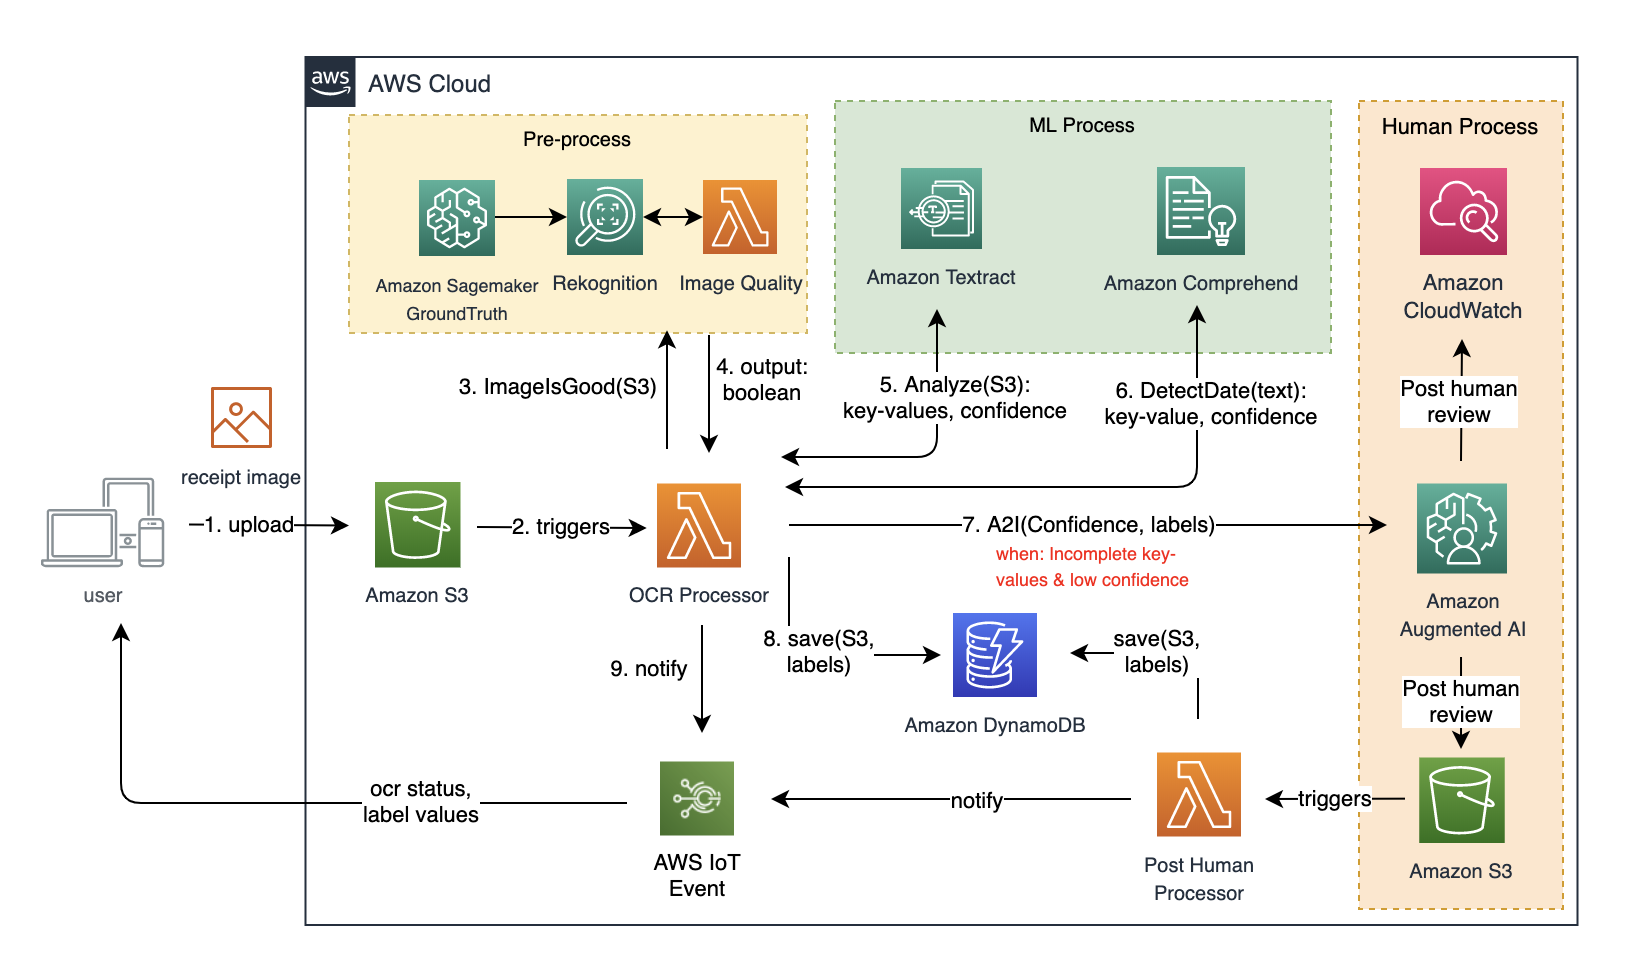
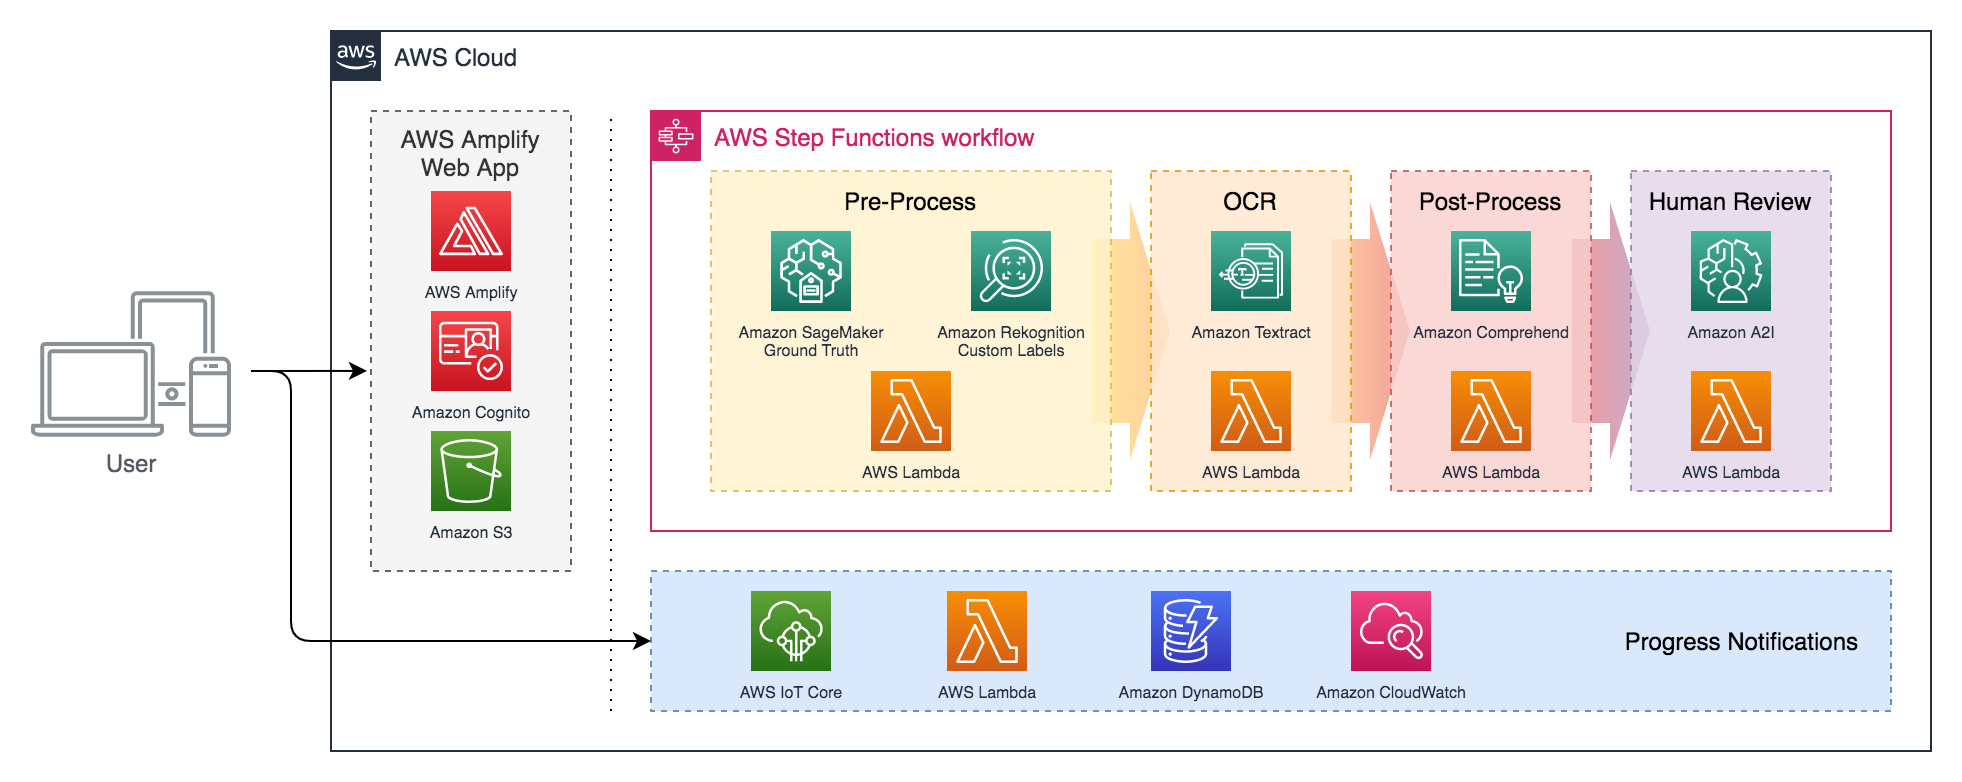
doc(root): initial tidy-up
Covering root and notifications/webui, but not other pipeline components

diff --git a/README.md b/README.md
@@ -14,46 +14,66 @@ This solution demonstrates how Textract can be integrated with:
 - **Results post-processing logic** - using custom logic as well as NLP from [Amazon Comprehend](https://aws.amazon.com/comprehend/)
 - **Human review and data annotation** - using [Amazon A2I](https://aws.amazon.com/augmented-ai/) and [Amazon SageMaker Ground Truth](https://aws.amazon.com/sagemaker/groundtruth/)
 
-The design is modular, to show how this pre- and post-processing can be easily customized for different use-cases.
+...on a simple example use-case: **extracting vendor, date, and total amount from receipt images.**
+
+The design is modular, to show how this pre- and post-processing can be easily customized for different applications.
 
 
-## Solution Architecture 
+## Solution Architecture Overview
+
+This overview diagram is *not an exhaustive list* of AWS services used in the solution.
 
 ![Smart OCR Architecture Diagram](images/architecture-overview.png "Smart OCR Demo Architecture")
 
-The solution has four high-level modules:
+The solution **orchestrates the core OCR pipeline** with [AWS Step Functions](https://aws.amazon.com/step-functions/) - rather than direct point-to-point integrations - which gives us a customizable, graphically-visualizable flow (defined in [/source/StateMachine.asl.json](source/StateMachine.asl.json)):
 
-- [Preprocessing part to identify this image as "good" or "bad](1.img-pre-processing)
-- [Textract for OCR](2.ocr-post-processing)
-- [Human-In-The-Loop (A2I) for human intervention in case of bad images](3.a2i-review)
-- [Web UI component to upload the receipt/document to S3 & view OCR result](4.web-gui)
+![AWS Step Functions Screenshot](images/step-function-screenshot.png "Step Function Flow Diagram")
 
-Additional details on how to deploy these modules have been provided in the readme file in the respective folders.
+The **client application** and associated services are built and deployed as an [AWS Amplify](https://aws.amazon.com/amplify/) app, which simplifies setup of standard client-cloud integration patterns (e.g. user sign-up/login, authenticated S3 data upload).
+
+Rather than have our web client *poll* the state machine for progress updates, we **push messages** via [Amplify PubSub](https://docs.amplify.aws/lib/pubsub/getting-started/q/platform/js) - powered by [AWS IoT Core](https://aws.amazon.com/iot-core/).
+
+The [Amplify build settings](https://docs.aws.amazon.com/amplify/latest/userguide/build-settings.html) (in [amplify.yml](amplify.yml) with some help from the [Makefile](Makefile)) define how **both** the Amplify-native and custom stack components are built and deployed... Leaving us with the folder structure you see in this repository:
+
+```tree
+├── amplify                   [Auto-generated, Amplify-native service config]
+├── source
+│   ├── ocr                       [Custom, non-Amplify backend service stack]
+│   │   ├── human-review              [Human review integration with Amazon A2I]
+│   │   ├── postprocessing            [Extract business-level fields from Textract output]
+│   │   ├── preprocessing             [Image pre-check/cleanup logic]
+│   │   ├── textract-integration      [SFn-Textract integrations]
+│   │   ├── ui-notifications          [SFn-IoT push notifications components]
+│   │   ├── StateMachine.asl.json     [Processing flow definition]
+│   │   └── template.sam.yml          [AWS SAM template for non-Amplify components]
+│   └── webui                     [Front-end app (VueJS, BootstrapVue, Amplify)]
+├── amplify.yml               [Overall solution build steps]
+└── Makefile                  [Detailed build commands, to simplify amplify.yml]
+```
+
+{{#note}}
+
+For details on each component, check the READMEs in their subfolders!
+
+{{/note}}
 
 
-## Getting Started
+## Deploying the Solution
 
-**WORK IN PROGRESS one-click deploy button (probably broken!)**
+If you have:
+
+- A [GitHub Account](https://github.com/join)
+- An [AWS Account](https://aws.amazon.com/account/)
+- **Understood that this solution may consume services outside the [Free Tier](https://aws.amazon.com/free), which will be chargeablee**
+
+...then you can go ahead and click the button below, which will fork the repository and deploy the base solution stack(s):
 
 [![One-click deployment](https://oneclick.amplifyapp.com/button.svg)](https://console.aws.amazon.com/amplify/home#/deploy?repo=https://github.com/athewsey/textract-demo)
 
+From here, there are just a few extra (but not trivial) **manual configuration steps** required to complete your setup:
 
-## AWS Services Used
+- Create a [Rekognition Custom Labels](https://console.aws.amazon.com/rekognition/custom-labels) model [as described in the preprocessing component doc](source/ocr/preprocessing), and configure your `FunctionPreProcess` Lambda function's environment variable to reference it.
+- Create an [Amazon A2I](https://docs.aws.amazon.com/sagemaker/latest/dg/a2i-use-augmented-ai-a2i-human-review-loops.html) human review flow and workforce [as described in the human-review component doc](source/ocr/human-review), and configure your `FunctionStartHumanReview` Lambda function's environment variable to reference the flow.
+- Register a user account **through the deployed app UI**, log in, and check it's permissions are set up correctly [as described in the ui-notifications component doc](source/ocr/ui-notifications).
 
-**Machine Learning Services:**
-
-- [Amazon SageMaker Ground Truth](https://aws.amazon.com/sagemaker/groundtruth/) - Manual labelling of training data set
-- [Amazon Rekognition Custom Labels](https://aws.amazon.com/rekognition/custom-labels-features/) - Quickly build custom ML models to detect objects and classify image quality
-- [Amazon Textract](https://aws.amazon.com/textract/) - Document text detection and analysis
-- [Amazon Comprehend](https://aws.amazon.com/comprehend/) - Natural language processing (NLP) to extract insights about content of documents
-- [Amazon Augmented AI (A2I)](https://aws.amazon.com/augmented-ai/) - Human intervention for low-confidence ML predictions
-
-**Integration and Orchestration:**
-
-- [AWS Lambda](https://aws.amazon.com/lambda/) - AWS Serverless components to execute code without worrying about servers
-- [AWS API Gateway](https://aws.amazon.com/api-gateway/) - AWS API Management service
-- [AWS Amplify](https://aws.amazon.com/amplify/) - Framework to build full-stack iOS, Android, Web, and React Native apps
-- [AWS IoT Events](https://aws.amazon.com/iot-events/) - Secure, bi-directional communication between client and AWS Cloud
-- [Amazon DynamoDB](https://aws.amazon.com/dynamodb/) - Highly scalable NoSQL database to store OCR labels
-- [Amazon S3](https://aws.amazon.com/s3/) - Object store for documents and images
-- [Amazon Cognito](https://aws.amazon.com/cognito/) - Handles user registration, authentication and authorization for the web app
+Now you should be all set to upload images through the app UI, review low-confidence results through the Amazon A2I UI, and see the results!

diff --git a/source/webui/README.md b/source/webui/README.md
@@ -1,58 +1,32 @@
 # Web GUI Flow
-<br>![alt text ](https://github.com/apac-ml-tfc/textract-demo/blob/master/4.web-gui/webui-flow.png "Service flow") 
+<br>![alt text ](webui-flow.png "Service flow") 
 
-# Setup Web GUI environment
+## Setting up a Dev Environment
 
-## Prerequisites
+### Pre-Requisitees
 
-Before we begin, make sure you have the following installed:
+You'll need installed:
 
 * [Node.js](https://nodejs.org/) v10.x or later
 * [npm](https://www.npmjs.com/) v5.x or later
 * [git](https://git-scm.com/) v2.14.1 or later
+* Amplify CLI: `npm install -g @aws-amplify/cli`
 
-## Install Amplify, Vue and app code
+You may also wish to globally install the [Vue CLI](https://cli.vuejs.org/), otherwise you'll need to prefix any `vue` commands with `npx`.
 
-### Install and configure Amplify CLI
-```
-npm install -g @aws-amplify/cli
-```
 
-### Configure Amplify CLI with AWS IAM user keys
-```
+###  OLD Instructions: Re-configuring from scratch
+
+#### Configure Amplify CLI with AWS IAM user keys
+```sh
 amplify configure
 ```
 This creates the following files:
 * ~/.aws/config
 * ~/.aws/credentials
 
-### Install Vue CLI
-```
-npm install -g @vue/cli
-```
-
-### Create new project
-```
-vue create smartocr
-```
-This creates a smartocr folder.
-
-### Extract app code 
-```
-git clone https://github.com/apac-ml-tfc/textract-demo.git
-cd smartocr
-```
-Copy and replace contents from <b>textract-demo/4.web-gui</b> into <b>smartocr</b> folder
-
-### Install app required npm modules in the app folder
-```
-cd smartocr
-npm install --save bootstrap bootstrap-vue
-npm install --save aws-amplify aws-amplify-vue
-```
-
-### Initialize Amplify
-```
+#### Initialize Amplify
+```sh
 amplify init
 ```
 * project name: smartocr
@@ -67,8 +41,8 @@ amplify init
 * using default provider: awscloudformation (can’t change)
 * AWS profile: use default or new profile
 
-### Adds S3 storage with Cognito Authentication and Authorization
-```
+#### Adds S3 storage with Cognito Authentication and Authorization
+```sh
 amplify add storage
 ```
 * Content (Images, audio, video, etc)
@@ -82,83 +56,28 @@ amplify add storage
 * access: create/update, read
 * add Lambda trigger: N
 
-### Update cloud resources
+#### Update cloud resources
 Run the following command to check Amplify's status:
-```
+```sh
 amplify status
 ```
 This will show the current status of the Amplify project, including the current environment, any categories that have been created, and what state those categories are in.
 
 Run the following command to update the cloud resources.
-```
+```sh
 amplify push
 ```
 
-## Setup additional AWS services
 
-### IoT Core endpoint for pubsub
+## Running the App Locally
 
-#### Obtain the IoT Core endpoint
-```
-aws iot describe-endpoint --endpoint-type iot:Data-ATS
-```
-Update the region and endpoint values in <b>src/SmartOCR.vue</b>
-```
-const AWS_PUBSUB_REGION = 'us-east-1'
-const AWS_PUBSUB_ENDPOINT = 'wss://ENDPOINTHERE/mqtt'
-```
-#### Create IoT Policy
-To use PubSub with AWS IoT, you will need to create an IoT Policy in the AWS IoT Console, and attach this policy to each logged-in user's Cognito Identity. This attachment is performed after a Cognito user is authenticated.
-
-Go to [IoT Core](https://console.aws.amazon.com/iot/home) and choose <b>Secure</b> from the left navigation pane. Then navigate to <b>Policies</b> and create the following policy:
-* Name: <b>myIoTPolicy</b>
-* Action: iot:*
-* Resource ARN: arn:aws:iot:YOUR-IOT-REGION:YOUR-IOT-ACCOUNT-ID:*
-* Effect: Allow
-
-Note: the policy name must match the name used in the following Lambda function.
-#### Attach IoT policy to Amazon Cognito Identity
-Create a new [Lambda function](https://console.aws.amazon.com/lambda) with Function code from <b>src/smartocr-post-authentication.py</b>
-* Function name: <b>smartocr-post-authentication</b>
-* Runtime: Python 3.8
-* Execution role: Create a new role with basic Lambda permissions
-
-After function is created, go to <b>Permissions</b> tab to open the role (e.g. smartocr-post-authentication-role-e73v7toi), and attach the following policies:
-* AWSIoTConfigAccess
-* AmazonCognitoPowerUser
-
-In IAM, search for <b>amplify-smartocr</b> and select the role that ends with <b>authRole</b>. This role was created by Amplify and assumed by authenticated users. Attach the following policies:
-* AWSIoTConfigAccess
-* AWSIotDataAccess
-
-Go to [Cognito User Pool](https://console.aws.amazon.com/cognito/users) and choose <b>Triggers</b> from the left navigation pane. In the <b>Post authentication panel</b>, select the Lambda function created previously:
-```
-smartocr-post-authentication
-```
-
-
-### S3 image upload trigger
-Complete setup in [2.ocr-post-processing](https://github.com/apac-ml-tfc/textract-demo/tree/master/2.ocr-post-processing) and note Lambda function name.
-
-Go to [S3](https://console.aws.amazon.com/s3) and select <b>smartocr-uploads*</b> bucket. In the <b>Properties</b> tab select <b>Events</b> and add the following notification:
-* Name: smartocr-s3objectcreate
-* Events: All object create events
-* Send to: Lambda Function
-* Lambda: <b>Select the Lambda function defined in ocr-post-processing</b>
-
-### Post A2I lambda trigger
-Complete setup in [3.a2i-review](https://github.com/apac-ml-tfc/textract-demo/tree/master/3.a2i-review)
-
-## Run app
-
-### Compile and run dev server locally
-```
+```sh
 npm run serve
 ```
 
 If you are running this in an AWS Cloud9 environment, replace following content in the <b>vue.config.js</b> file
-```
-    #public: 'http://localhost:8080’
+```js
+    //public: 'http://localhost:8080’
     public: 'https://xxxxxxxxxxxx.vfs.cloud9.us-east-1.amazonaws.com'
 ```
 
@@ -166,23 +85,15 @@ If you are running this in an AWS Cloud9 environment, replace following content 
 
 You may now login to the app on your local machine. On the home page, create an account with a valid email address for email confirmation. Login with the your credentials and try uploading samples from this folder.
 
-### Add hosting to your app
-Perform the following to deploy your app manually. You may choose to setup automatic continuous deployment.
-```
-amplify add hosting
-```
-* plugin module: Hosting with Amplify Console
-* type: Manual deployment
-
 ### Publish app
 
-```
+```sh
 amplify publish
 ```
 Note the published url, e.g. xvxvxvxvxvxvxv.amplifyapp.com
 
 ## Cleanup project
-```
+```sh
 amplify delete
 ```
 These objects must be deleted explicitly

diff --git a/source/ocr/ui-notifications/README.md b/source/ocr/ui-notifications/README.md
@@ -1,0 +1,81 @@
+# Notifications with AWS IoT Core and Amplify PubSub
+
+This folder contains assets specific to the IoT-based progress notifications component.
+
+## Component Architecture Overview
+
+When a Step Function execution is triggered (by the user's upload of an image into the upload bucket), the state machine begins to emit log events to CloudWatch.
+
+A Lambda function is subscribed to pick up these events, and publish them to the originating user's IoT Core topic - from where they're visible to the web UI via Amplify's PubSub library.
+
+![Notifications Architecture Overview](images/notifications-overview.png "Notifications Architecture Overview Diagram")
+
+### Key Challenges
+
+1. Because our state machine is triggered implicitly by S3 uploads (rather than through a custom app-facing API combining the upload and execution start operations):
+    - The client doesn't automatically know what SFn execution ID(s) it's started
+    - The initial input to the Step Function is the only place where this information is reliably present (SFn error events might omit data fields, but will always contain the SFn execution ID)
+    - **...so tracking the correlation between S3 upload URI, Cognito ID, and SFn Execution ID is not trivial**
+2. Granting Cognito identities access to IoT topics requires *both*:
+    - Attaching an appropriate IAM policy to the Authenticated Role of the Cognito Identity Pool, *and*
+    - Attaching *each identity* (user) as principal to an IoT Core policy
+    - **...so setting up Cognito user permissions is not trivial** - especially Cognito draws a separation between [users and identities](https://aws.amazon.com/premiumsupport/knowledge-center/cognito-user-pools-identity-pools/), and both pools are set up by Amplify rather than our custom stack.
+
+
+## Troubleshooting PubSub Permissions
+
+If you're seeing permissions errors when the web UI tries to connect to PubSub topics, then `FunctionSetUpIoTAuth` has let you down: Your Cognito user's permissions were not correctly set up during on-boarding.
+
+### Check your Cognito Identity pool AuthRole IAM permissions
+
+**TL;DR:** Check your `amplify-....-authRole` [IAM Role](https://console.aws.amazon.com/iam/home#/roles) has the `AWSIoTConfigAccess` and `AWSIoTDataAccess` managed policies attached.
+
+**Walkthrough:**
+
+- Open the [AWS IAM Console Roles tab](https://console.aws.amazon.com/iam/home#/roles) and search for a role named something like `amplify-{APPNAME}-{BRANCHNAME}-{RANDOM}-authRole`.
+- If needed (e.g. lots of similar looking roles), you can trace your app's authenticated role through from the Amplify Console:
+  - Open your app in the [Amplify Console](https://console.aws.amazon.com/amplify/home) and go to the "Backend environments" tab.
+  - You will probably see just one environment, and should click through to the **Authentication** area.
+  - From here, you'll see a direct link to view your **federated identities pool** in [Amazon Cognito](https://console.aws.amazon.com/cognito/pool/) (or, if you struggled, just go to the Amazon Cognito console and pick the **Identity Pool** that looks right).
+  - From the dashboard for your Identity Pool, click the **Edit identity pool** link in the top.
+  - The Edit page will include a drop-down listing your **Authenticated role** name (but no clickable-link - you'll still have to go find it in [IAM Console](https://console.aws.amazon.com/iam/home#/roles)! 😖)
+- From the correct role's Summary page in IAM, you'll see a blue **Attach policies** button on the (default) 'Permissions' tab.
+- Click the button, and attach both `AWSIoTConfigAccess` and `AWSIoTDataAccess` to the role.
+
+### Check your specific Cognito Identity has IoT permissions
+
+**TL;DR:** Your Cognito Identity ID must have been attached to the solution's [IoT Policy](https://console.aws.amazon.com/iot/home?#/policyhub).
+
+**Your Cognito Identity ID is not your login username!** Identity IDs usually consist of the AWS Region and a GUID, e.g: `us-east-1:12345678-abcd-1234-abcd-123456589abc`.
+
+**Walkthrough:**
+
+- If you're just testing out with one or two users, you can review the list of identity IDs from the [Cognito Identity Pools Console](https://console.aws.amazon.com/cognito/federated/): Select the solution's pool from the list, then go to the **Identity browser** tab on the left hand side.
+  - Otherwise, we log it for you in the web app: Just sign in and open your browser's dev tools (press `F12`), and scroll through the console output until you find your Identity ID.
+- Next you'll need your **IoT policy name** from the [IoT Core Console](https://console.aws.amazon.com/iot/home?region=us-east-1#/policyhub):
+  - Open the IoT Core Console
+  - Navigate to Secure > Policies on the sidebar
+  - Find the policy tile with a name like `amplify-{APPNAME}-{some other stuff}-AmplifyIoTAccessPolicy-{RANDOM}`
+  - ^ It's this name you need, not the ARN
+- Unfortunately there's no UI for this action, so you'll need to either:
+  - Use the [AWS CLI](https://aws.amazon.com/cli/) to run `aws iot attach-policy --target {IdentityId} --policy-name {PolicyName}`
+  - ...Or if you prefer working in a Python environment, check out the [fn-setup-iot-auth code](fn-setup-iot-auth) for the equivalent [Boto3 command](https://boto3.amazonaws.com/v1/documentation/api/latest/reference/services/iot.html#IoT.Client.attach_policy)
+
+
+## Automating IoT Policy Attachment (Old Instructions)
+
+Create a new [Lambda function](https://console.aws.amazon.com/lambda) with Function code from [smartocr-post-authentication.py](smartocr-post-authentication.py)
+
+* Function name: <b>smartocr-post-authentication</b>
+* Runtime: Python 3.8
+* Execution role: Create a new role with basic Lambda permissions
+
+After function is created, go to <b>Permissions</b> tab to open the role (e.g. smartocr-post-authentication-role-e73v7toi), and attach the following policies:
+* AWSIoTConfigAccess
+* AmazonCognitoPowerUser
+
+In IAM, search for <b>amplify-smartocr</b> and select the role that ends with <b>authRole</b>. This role was created by Amplify and assumed by authenticated users. Attach the following policies:
+* AWSIoTConfigAccess
+* AWSIotDataAccess
+
+Go to [Cognito User Pool](https://console.aws.amazon.com/cognito/users) and choose <b>Triggers</b> from the left navigation pane. In the <b>Post authentication panel</b>, select the Lambda function created previously: `smartocr-post-authentication`

diff --git a/source/ocr/README.md b/source/ocr/README.md
@@ -1,0 +1,23 @@
+# OCR (Non-Amplify Services) Stack
+
+This folder is where all our non-Amplify-managed resources are defined, including the OCR processing pipeline and the IoT-based progress notification components.
+
+## Deploying Just the SAM Stack (No Amplify Front-End)
+
+> *Can I deploy this without the Amplify app front end?*
+
+**Yes!**
+
+- Install the [AWS SAM CLI](https://aws.amazon.com/serverless/sam/)
+- Check out the example commands as Amplify runs them in the [Makefile](../Makefile)
+
+The important differences will be:
+
+- You don't need to specify Cognito user/ID pools if not linking to a front-end app.
+- Recommend adding `--use-container` argument to the `sam build` command, to have it build your Lambdas in tidy Docker containers rather than requiring your system to have the right dependencies & versions installed.
+
+AWS SAM:
+
+- `build`s your Lambda function bundles with the libraries they depend on
+- `package`s these bundles to an S3 bucket and produces a true [CloudFormation template](https://aws.amazon.com/cloudformation/) from the source SAM template ([template.sam.yml](template.sam.yml))
+- `deploy`s your stack to CloudFormation - where you can see it in the [CloudFormation Console](https://console.aws.amazon.com/cloudformation/home)
